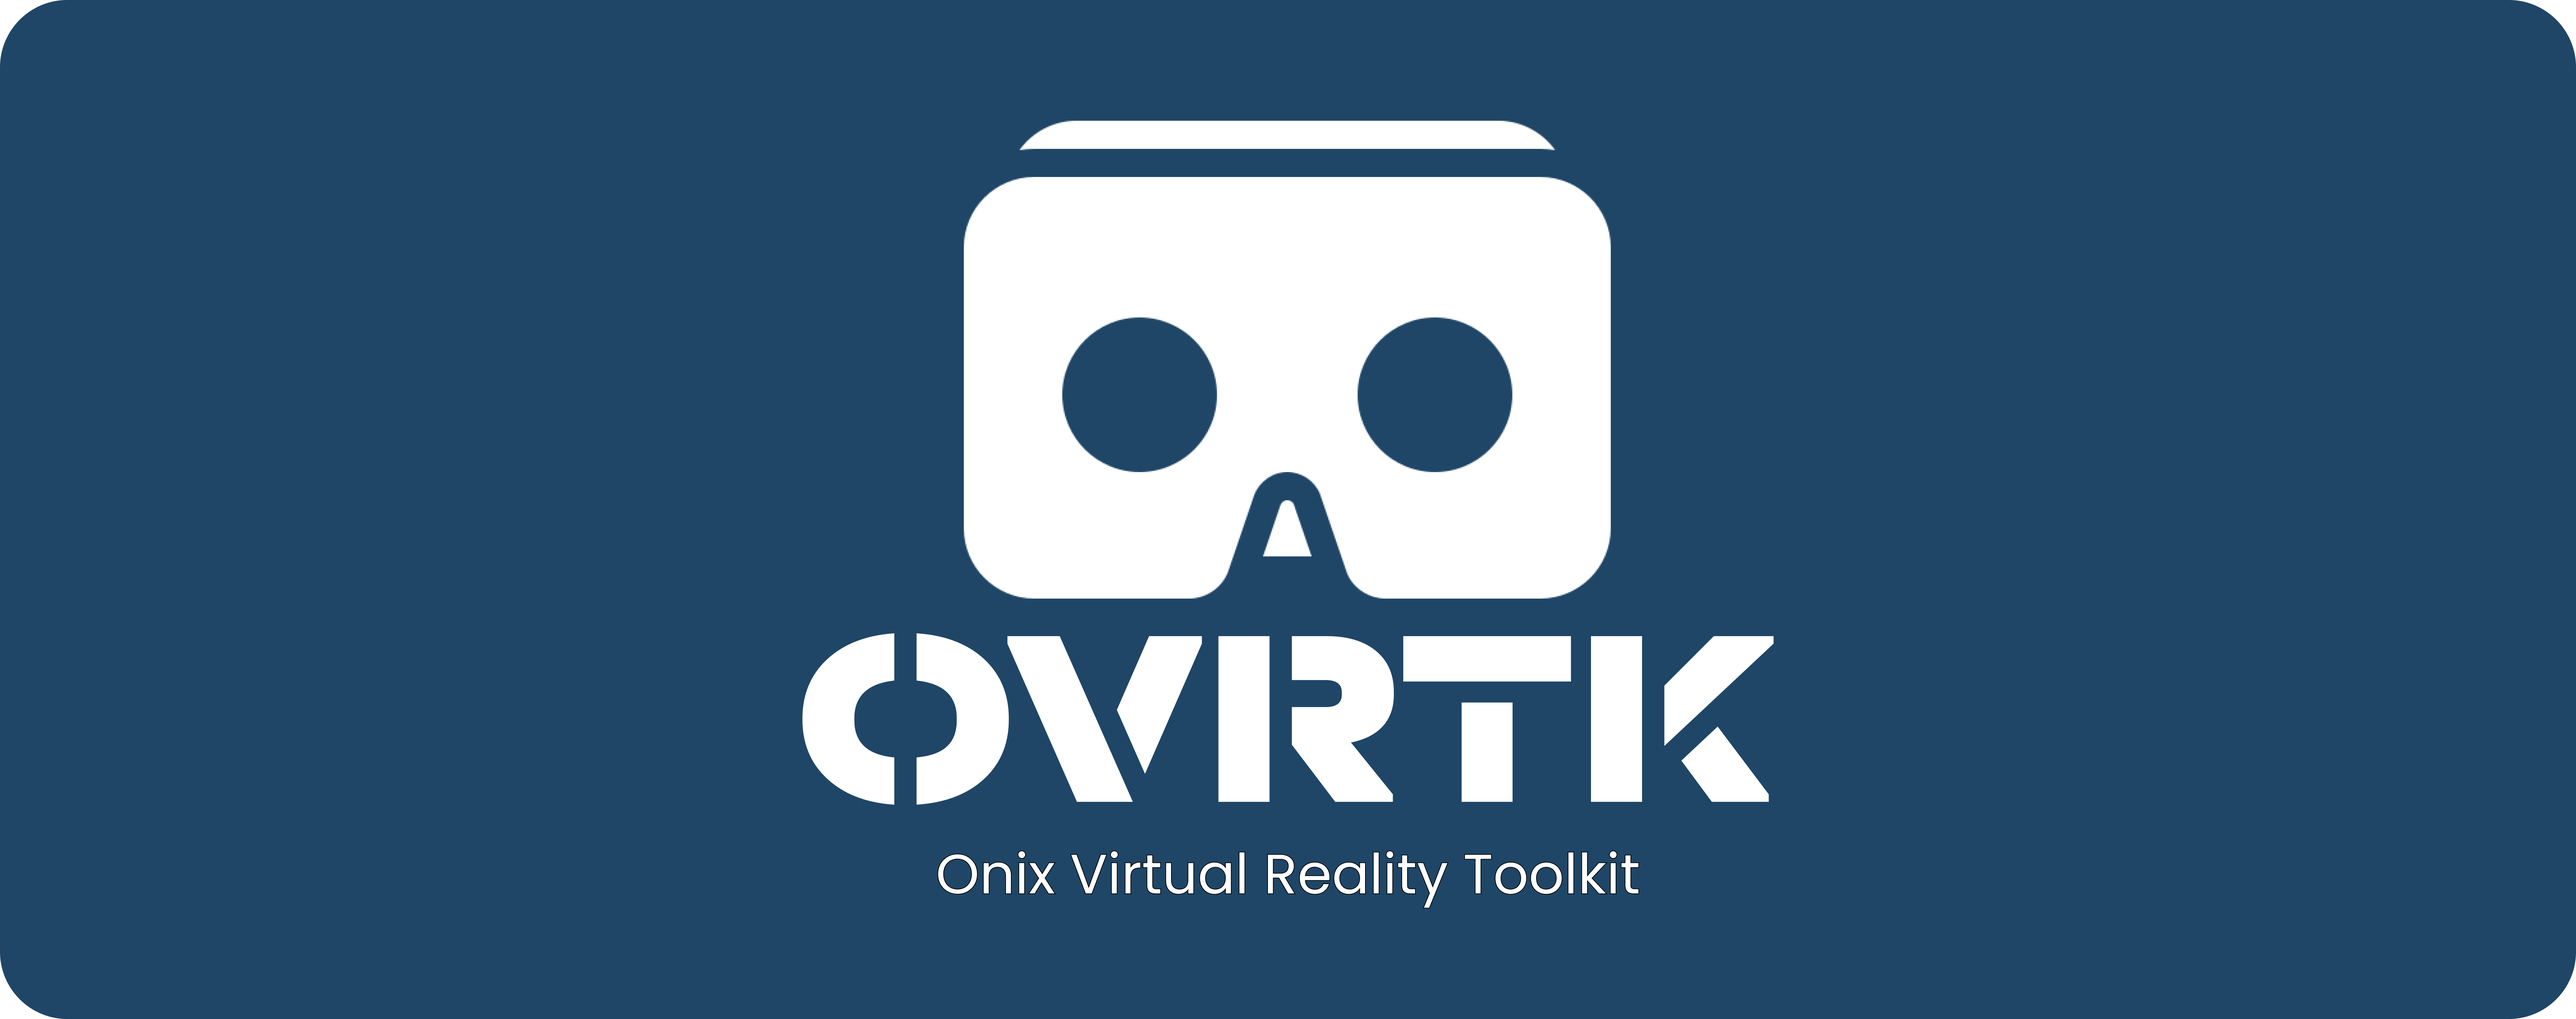
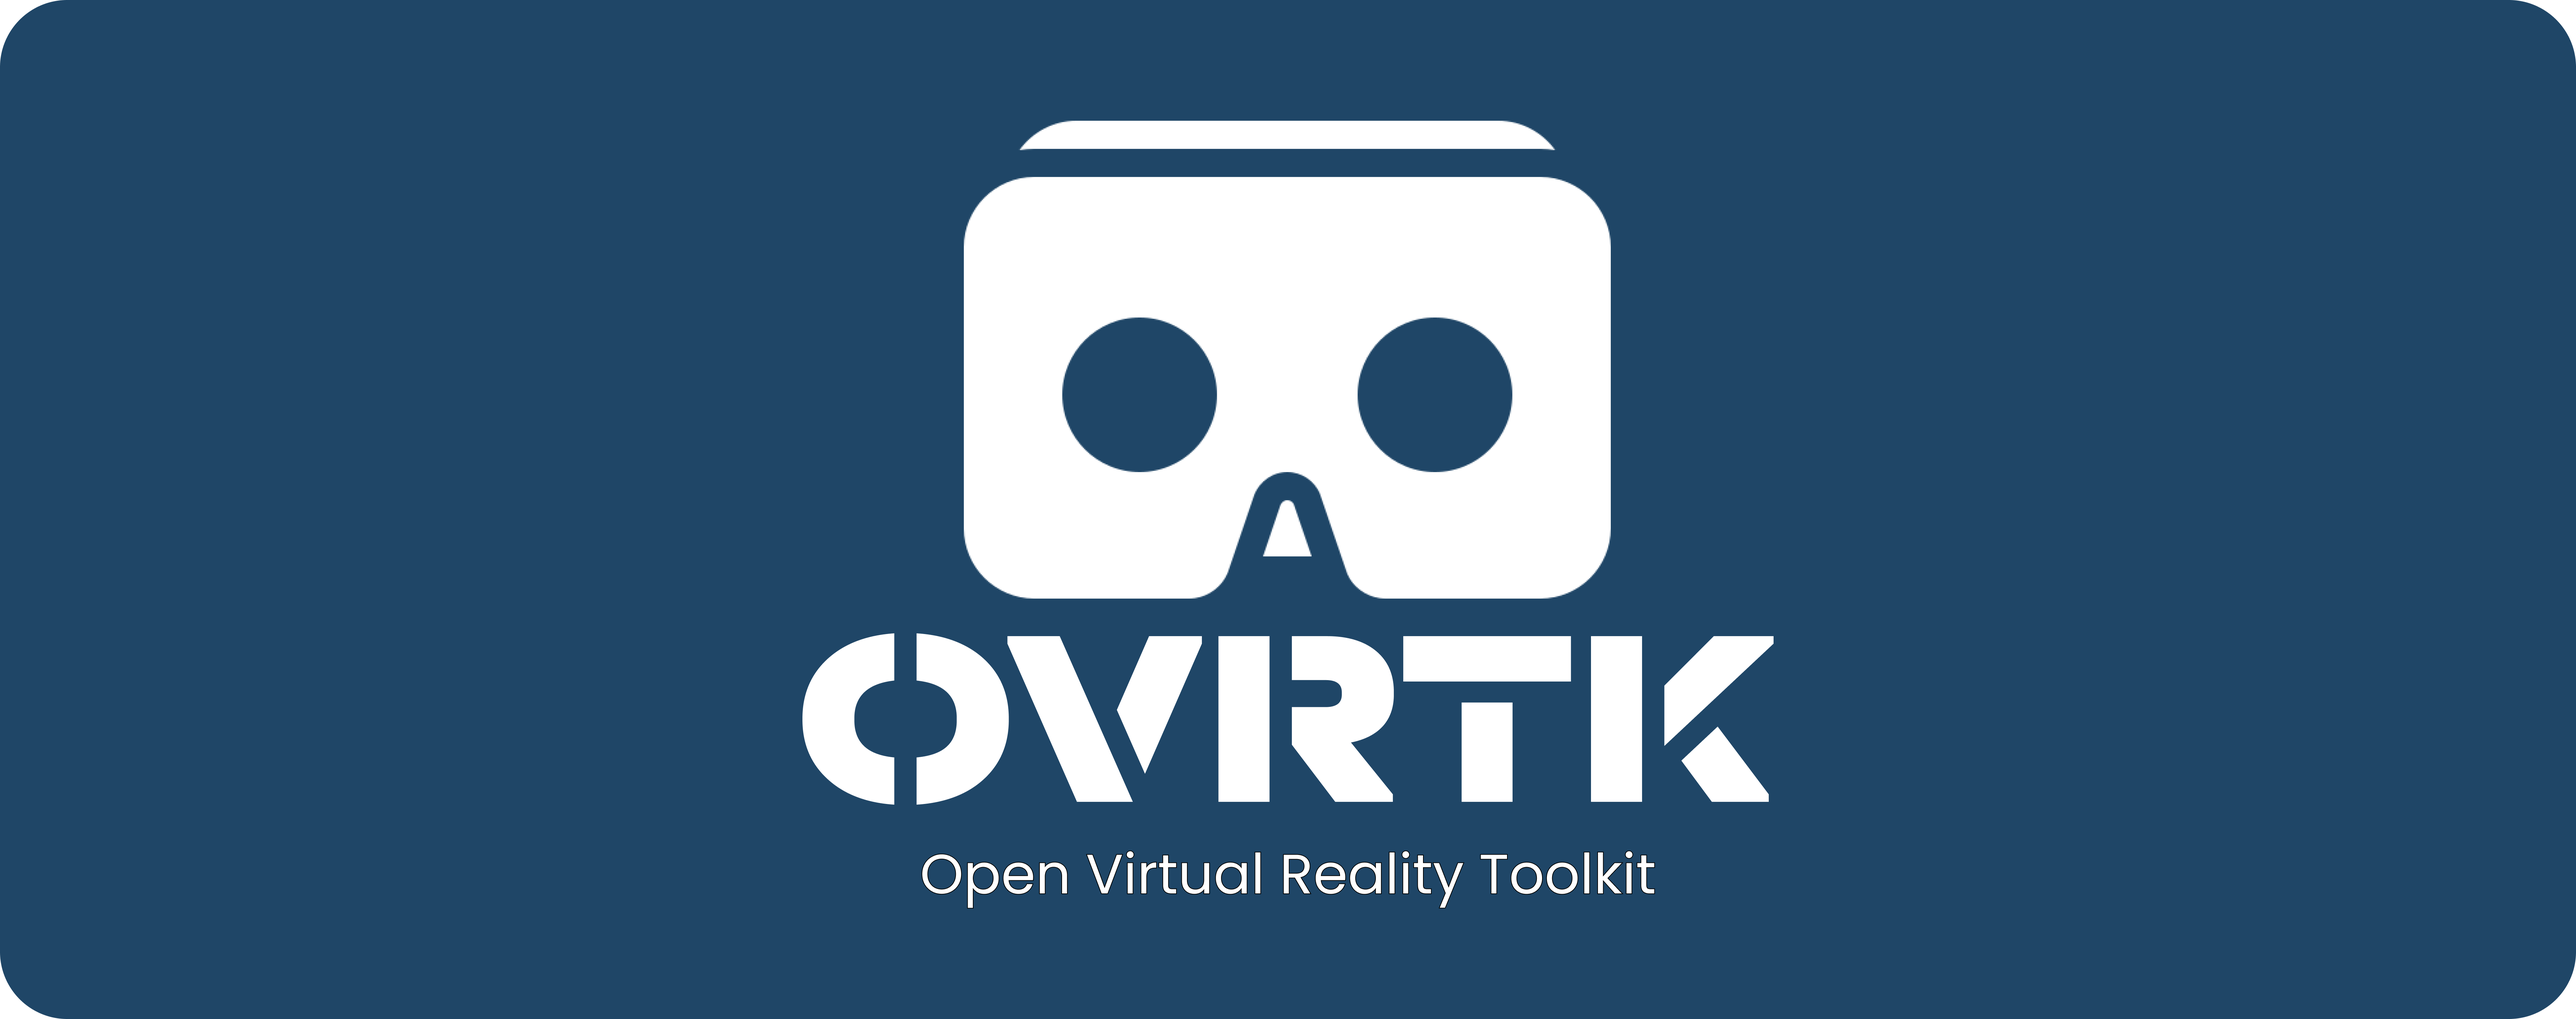
update readme

Changed region(s): [[0.3424, 0.8363, 0.6536, 0.8982]]

diff --git a/README.md b/README.md
@@ -1,6 +1,7 @@
 <img src="./Images/OVRTK.png" width="100%"></img>
 <h1 align="center">Onix Virtual Reality Toolkit</h1>
-OVRTK is a Mobile based Virtual Reality Development Toolkit which uses Gyroscope of any mobile device to simulate the VR environment with a stereoscopic view of the environment.
-OVRTK is developed as a research project and is open for contributions from other developers.
+Introducing OVRTK - a cutting-edge Mobile based Virtual Reality Development Toolkit that utilizes the gyroscope of any mobile device to create a fully immersive VR experience. OVRTK allows users to explore and interact with virtual environments in stunning stereoscopic detail.
+Developed as a research project, OVRTK is the result of months of dedicated experimentation and innovation. But it doesn't stop there - we are constantly seeking to improve and evolve our technology, and invite other developers to contribute their own ideas and expertise to help us push the boundaries of what's possible in the world of VR.
+Whether you're a seasoned developer looking to explore new frontiers, or simply an avid VR enthusiast eager to dive into new worlds, OVRTK has something for everyone. So why wait? Join us on this thrilling journey into the future of Virtual Reality, and experience the power of OVRTK for yourself.
 
-<b>NOTE: </b> Documentation Will Be Provided Soon
+Documentation: https://priyanshu-1.gitbook.io/ovrtk/getting-started/introduction-to-ovrtk
